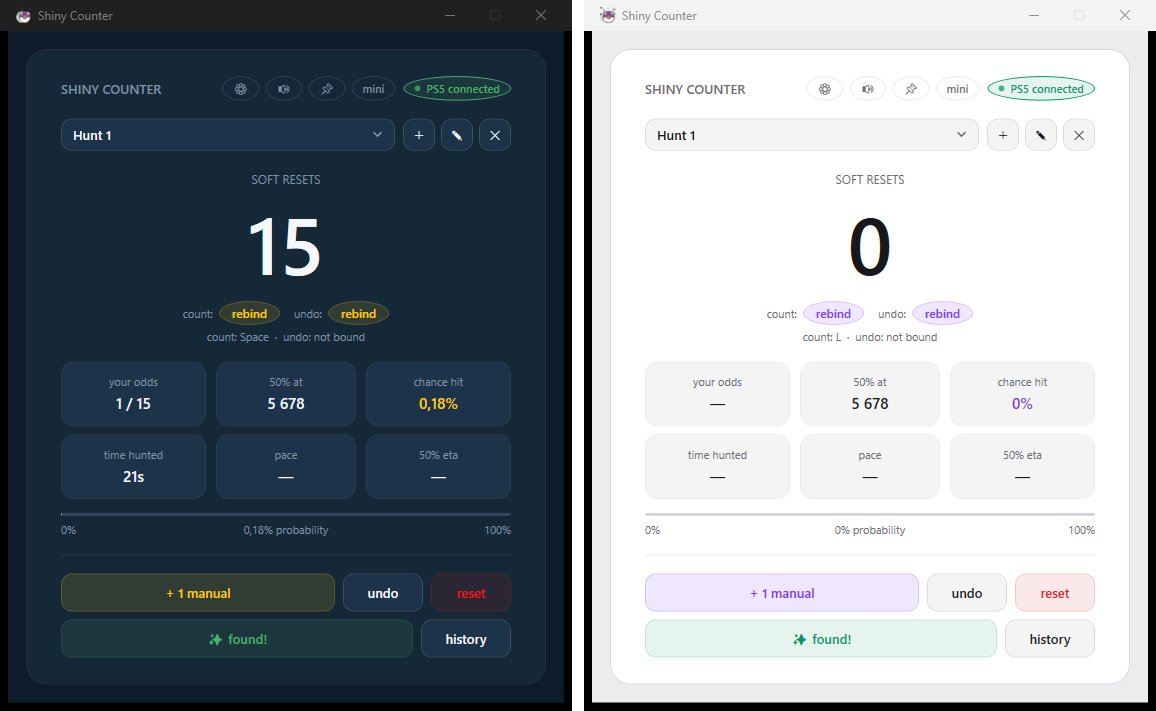
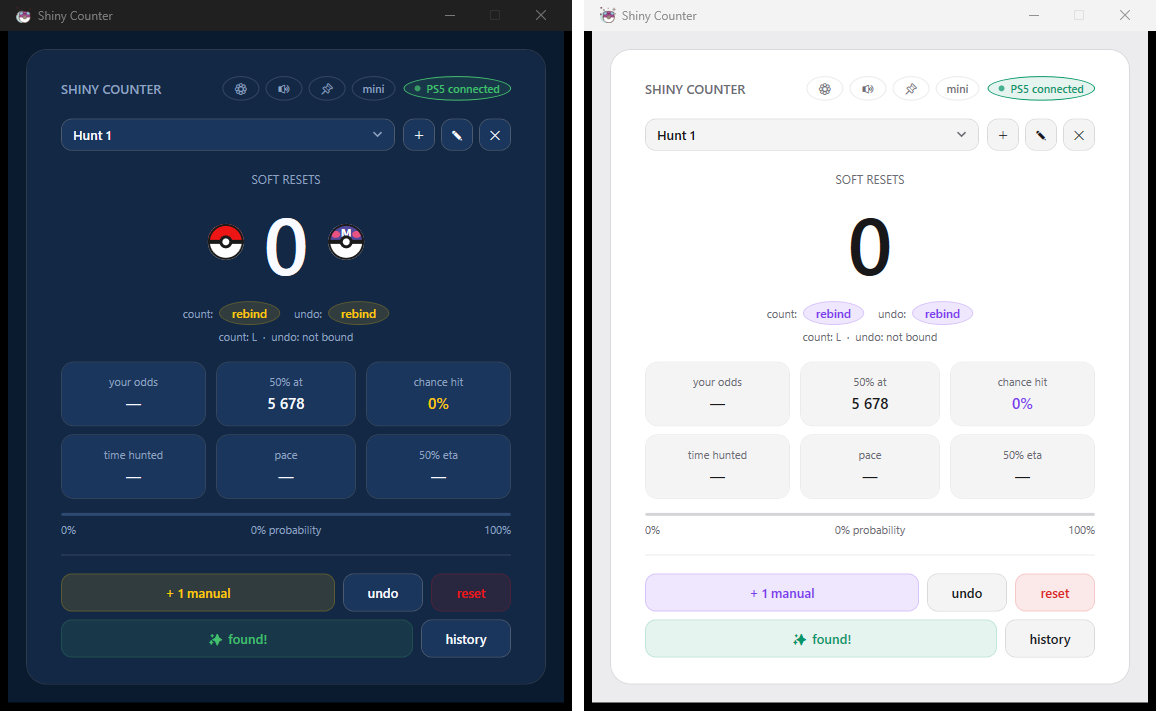
v1.3.0: more Pokemon in the Pokemon theme
- Vector Pokeball and Masterball flank the counter on decor themes
- Richer, more saturated Pokemon palette
- Themes support an optional Decor: pokeballs key
- Stock theme files refresh on every launch (copy + rename to customize)

diff --git a/ShinyCounter/MainWindow.xaml b/ShinyCounter/MainWindow.xaml
@@ -91,10 +91,47 @@
         <TextBlock Text="SOFT RESETS" FontSize="12"
                    Foreground="{DynamicResource MutedBrush}"
                    HorizontalAlignment="Center" Margin="0,0,0,2"/>
-        <TextBlock x:Name="CounterText" Text="0"
-                   FontSize="80" FontWeight="SemiBold"
-                   HorizontalAlignment="Center"
-                   Margin="0,0,0,6"/>
+        <StackPanel Orientation="Horizontal" HorizontalAlignment="Center" Margin="0,0,0,6">
+
+          <!-- Pokéball (decor themes only) -->
+          <Grid x:Name="PokeballIcon" Width="36" Height="36" Visibility="Collapsed"
+                VerticalAlignment="Center" Margin="0,0,20,0">
+            <Ellipse Fill="#FFFFFF"/>
+            <Ellipse Fill="#EE1515">
+              <Ellipse.Clip>
+                <RectangleGeometry Rect="0,0,36,18"/>
+              </Ellipse.Clip>
+            </Ellipse>
+            <Rectangle Fill="#1A1A1A" Height="4" VerticalAlignment="Center"/>
+            <Ellipse Width="13" Height="13" Fill="#FFFFFF" Stroke="#1A1A1A" StrokeThickness="3"/>
+            <Ellipse Stroke="#1A1A1A" StrokeThickness="2"/>
+          </Grid>
+
+          <TextBlock x:Name="CounterText" Text="0"
+                     FontSize="80" FontWeight="SemiBold"
+                     VerticalAlignment="Center"/>
+
+          <!-- Masterball (decor themes only) -->
+          <Grid x:Name="MasterballIcon" Width="36" Height="36" Visibility="Collapsed"
+                VerticalAlignment="Center" Margin="20,0,0,0">
+            <Ellipse Fill="#FFFFFF"/>
+            <Ellipse Fill="#52489C">
+              <Ellipse.Clip>
+                <RectangleGeometry Rect="0,0,36,18"/>
+              </Ellipse.Clip>
+            </Ellipse>
+            <Ellipse Width="9" Height="7" Fill="#E85382"
+                     HorizontalAlignment="Left" VerticalAlignment="Top" Margin="3,7,0,0"/>
+            <Ellipse Width="9" Height="7" Fill="#E85382"
+                     HorizontalAlignment="Right" VerticalAlignment="Top" Margin="0,7,3,0"/>
+            <TextBlock Text="M" FontSize="11" FontWeight="Bold" Foreground="#FFFFFF"
+                       HorizontalAlignment="Center" VerticalAlignment="Top" Margin="0,1,0,0"/>
+            <Rectangle Fill="#1A1A1A" Height="4" VerticalAlignment="Center"/>
+            <Ellipse Width="13" Height="13" Fill="#FFFFFF" Stroke="#1A1A1A" StrokeThickness="3"/>
+            <Ellipse Stroke="#1A1A1A" StrokeThickness="2"/>
+          </Grid>
+
+        </StackPanel>
         <StackPanel Orientation="Horizontal" HorizontalAlignment="Center" Margin="0,0,0,4">
           <TextBlock Text="count:" FontSize="11"
                      Foreground="{DynamicResource MutedBrush}"

diff --git a/ShinyCounter/Theme.cs b/ShinyCounter/Theme.cs
@@ -10,6 +10,7 @@ namespace ShinyCounter;
 public sealed class Theme
 {
     public string Name { get; set; } = "";
+    public string Decor { get; set; } = ""; // "" or "pokeballs"
     public Dictionary<string, string> Colors { get; set; } = new();
 }
 
@@ -23,6 +24,7 @@ public static class ThemeManager
     public static Color Accent { get; private set; } = (Color)ColorConverter.ConvertFromString("#A78BFA");
     public static Color Text { get; private set; } = (Color)ColorConverter.ConvertFromString("#F4F4F5");
     public static bool DarkTitleBar { get; private set; } = true;
+    public static string CurrentDecor { get; private set; } = "";
 
     private static readonly Dictionary<string, string> Dark = new()
     {
@@ -42,31 +44,30 @@ public static class ThemeManager
 
     private static readonly Dictionary<string, string> Pokemon = new()
     {
-        ["bg"] = "#0D1B2A", ["surface"] = "#152838", ["surface2"] = "#1D3349",
-        ["border"] = "#1AFFFFFF", ["borderHover"] = "#2EFFFFFF",
-        ["text"] = "#F5F7FA", ["muted"] = "#8093A7", ["hint"] = "#33475C",
-        ["accent"] = "#FFCB05", ["danger"] = "#EE1515", ["success"] = "#4CAF6D", ["warning"] = "#FF9C33",
+        ["bg"] = "#0A1A2F", ["surface"] = "#132845", ["surface2"] = "#1B365C",
+        ["border"] = "#24FFFFFF", ["borderHover"] = "#3BFFFFFF",
+        ["text"] = "#F8FAFF", ["muted"] = "#8FA3C2", ["hint"] = "#2E4A73",
+        ["accent"] = "#FFCB05", ["danger"] = "#EE1515", ["success"] = "#43C06E", ["warning"] = "#FF9C33",
     };
 
-    /// Write the stock theme files if missing so the community has live examples to copy.
+    /// Write the stock theme files so the community has live examples to copy.
+    /// Stock files are refreshed every launch — copy and rename one to customize it.
     public static void EnsureStockThemes()
     {
         try
         {
             Directory.CreateDirectory(ThemesDir);
-            WriteIfMissing("Dark", Dark);
-            WriteIfMissing("Light", Light);
-            WriteIfMissing("Pokemon", Pokemon);
+            WriteStock("Dark", Dark, "");
+            WriteStock("Light", Light, "");
+            WriteStock("Pokemon", Pokemon, "pokeballs");
         }
         catch { }
     }
 
-    private static void WriteIfMissing(string name, Dictionary<string, string> colors)
+    private static void WriteStock(string name, Dictionary<string, string> colors, string decor)
     {
-        string path = Path.Combine(ThemesDir, name + ".json");
-        if (File.Exists(path)) return;
-        File.WriteAllText(path, JsonSerializer.Serialize(
-            new Theme { Name = name, Colors = colors },
+        File.WriteAllText(Path.Combine(ThemesDir, name + ".json"), JsonSerializer.Serialize(
+            new Theme { Name = name, Decor = decor, Colors = colors },
             new JsonSerializerOptions { WriteIndented = true }));
     }
 
@@ -116,6 +117,7 @@ public static class ThemeManager
               success = C("success"), warning = C("warning");
         Accent = accent;
         Text = C("text");
+        CurrentDecor = theme.Decor ?? "";
 
         SetBrush("BgBrush", bg);
         SetBrush("SurfaceBrush", C("surface"));

diff --git a/ShinyCounter/MainWindow.xaml.cs b/ShinyCounter/MainWindow.xaml.cs
@@ -572,6 +572,10 @@ public partial class MainWindow : Window
     {
         _counterBrush.BeginAnimation(SolidColorBrush.ColorProperty, null);
         _counterBrush.Color = ThemeManager.Text;
+
+        var balls = ThemeManager.CurrentDecor == "pokeballs" ? Visibility.Visible : Visibility.Collapsed;
+        PokeballIcon.Visibility = balls;
+        MasterballIcon.Visibility = balls;
         // Re-resolve the status pill brushes for the new palette
         bool wasConnected = _padConnected;
         string name = _padName;

diff --git a/README.md b/README.md
@@ -36,7 +36,7 @@ Grab `ShinyCounter.exe` from the [latest release](../../releases/latest) and run
 
 ## Making a theme
 
-Themes are JSON files with 12 colors — hover/dim/border shades are derived automatically. Copy a stock file from `%APPDATA%\ShinyCounter\Themes` (created on first run), rename it, change the colors, then pick it in ⚙ settings:
+Themes are JSON files with 12 colors — hover/dim/border shades are derived automatically. Copy a stock file from `%APPDATA%\ShinyCounter\Themes`, **rename it** (stock files are refreshed on every launch), change the colors, then pick it in ⚙ settings. Add `"Decor": "pokeballs"` to show the Pokéball and Masterball beside the counter, like the Pokémon theme does:
 
 ```json
 {
